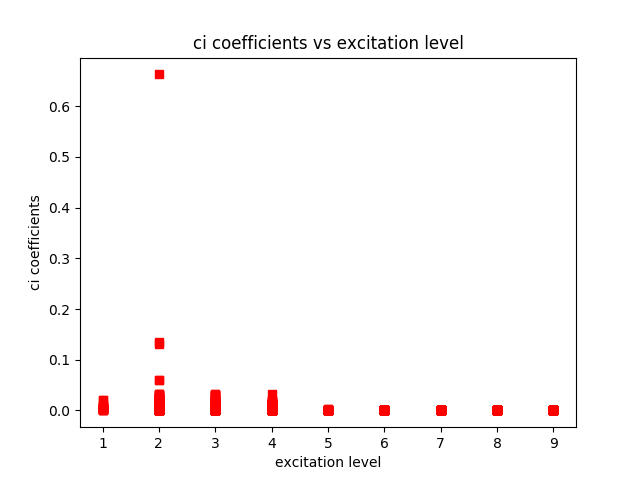
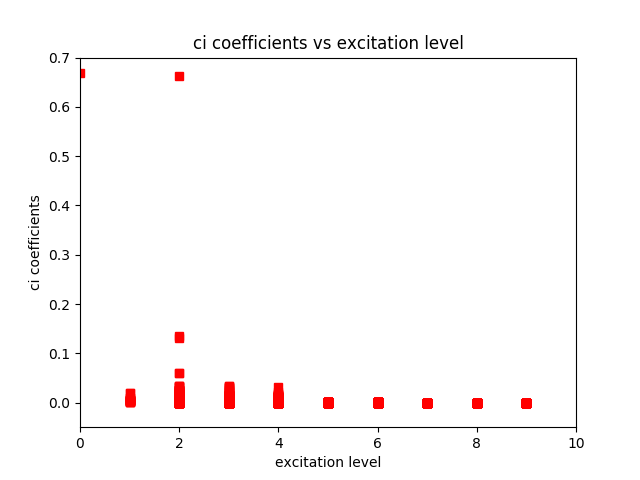
Corrections

diff --git a/determinants2.py b/determinants2.py
@@ -7,7 +7,7 @@ t0 = time.time()
 with open('determinantData.txt') as f:
     content = f.readlines()
 
-n_ci = 1000 - 1
+n_ci = len(content) - 1
 norbs = 16
 nspinorbs = 2*norbs
 nelec = 12
@@ -21,22 +21,22 @@ for i in range(1, n_ci + 1):
     for j in range(nelec):
         dets[i-1, j] = int(content[i].split()[j + 2])
 
-ci.pop(0)
 ci_new = []
 for numbers in ci:
     ci_new.append(np.absolute(float(numbers)))
 
 hf_det = dets[0]
 occ = []
-for i in range(1, n_ci):
+for i in range(0, n_ci):
     mask = np.in1d(hf_det, dets[i])
     occ.append(nelec - np.sum(mask))
 
 plt.title('ci coefficients vs excitation level')
 plt.xlabel('excitation level')
 plt.ylabel('ci coefficients')
+plt.axis([0, 10, -0.05, 0.7])
 plt.plot(occ, ci_new, 'rs')
-plt.savefig('occupation_final2.png')
+plt.savefig('occupation_final.png')
 plt.show()
 
 print "Total Time:", time.time() - t0
